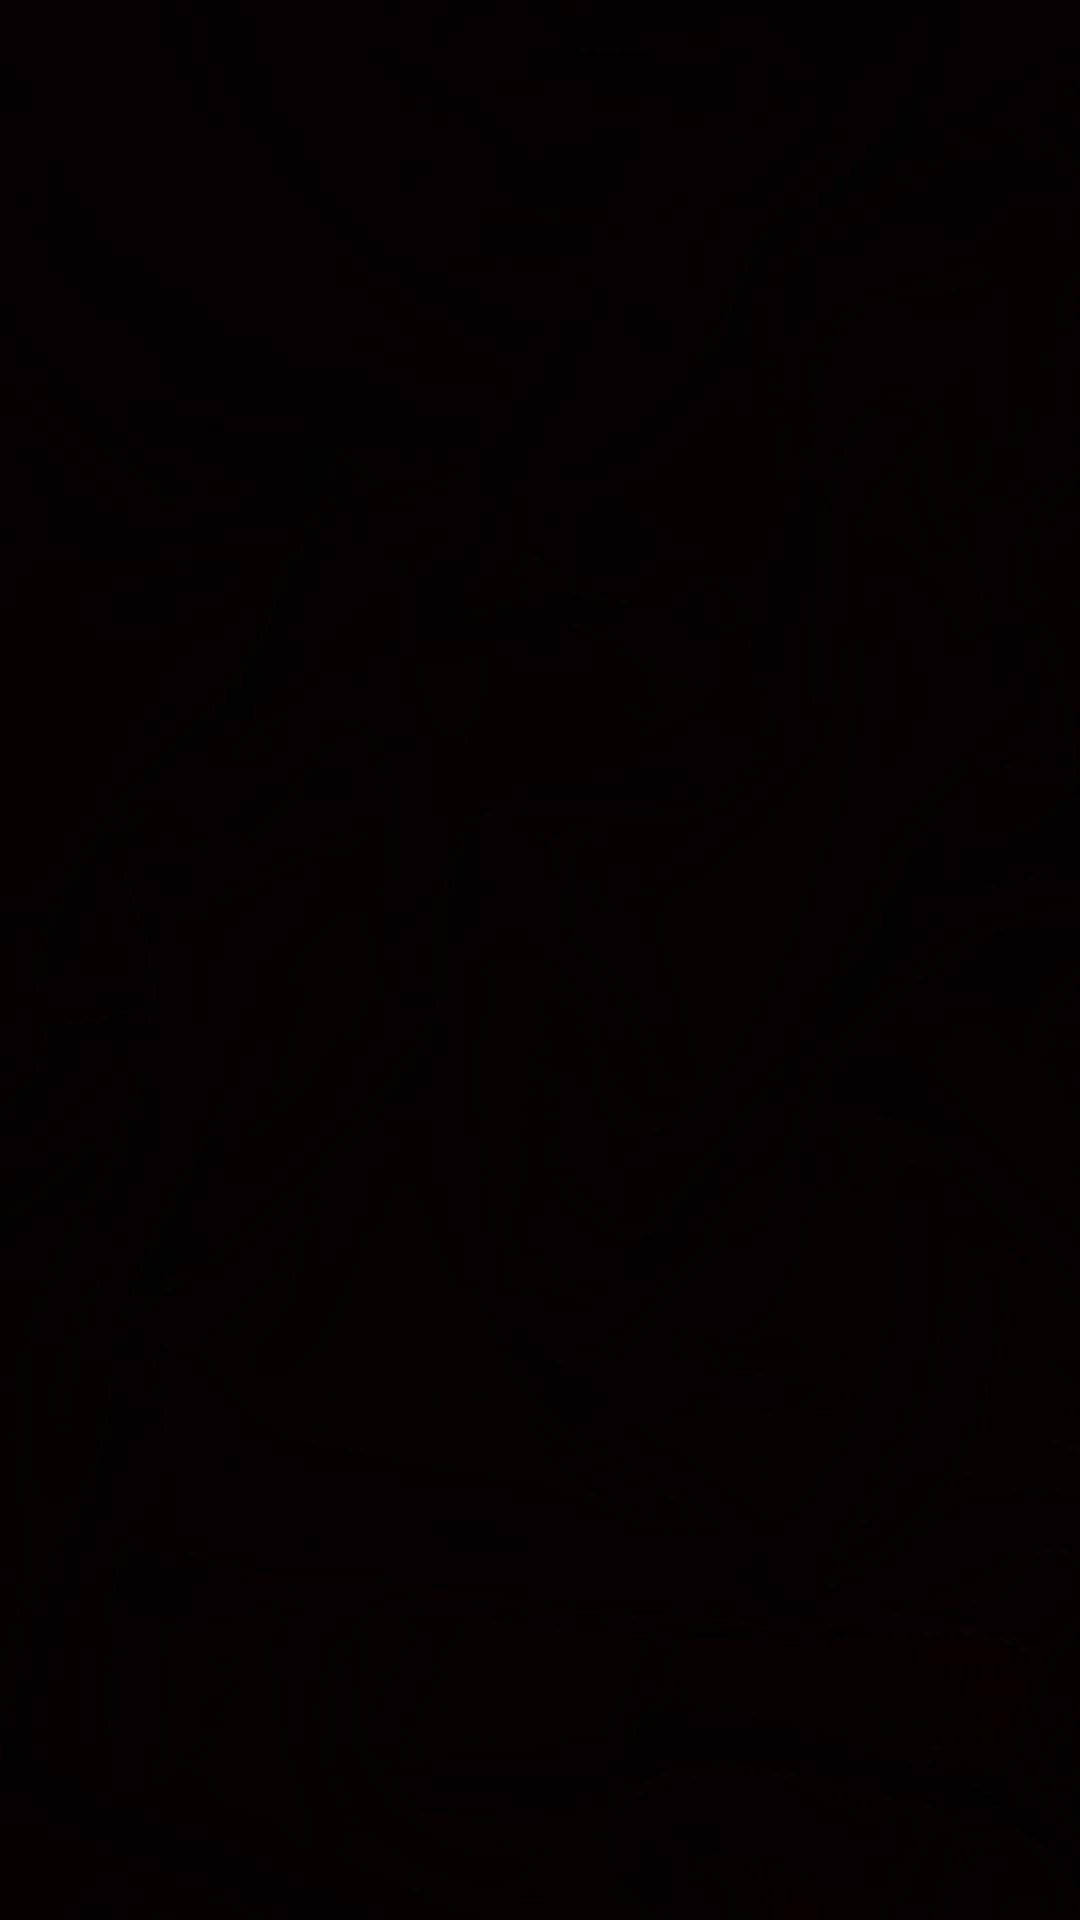
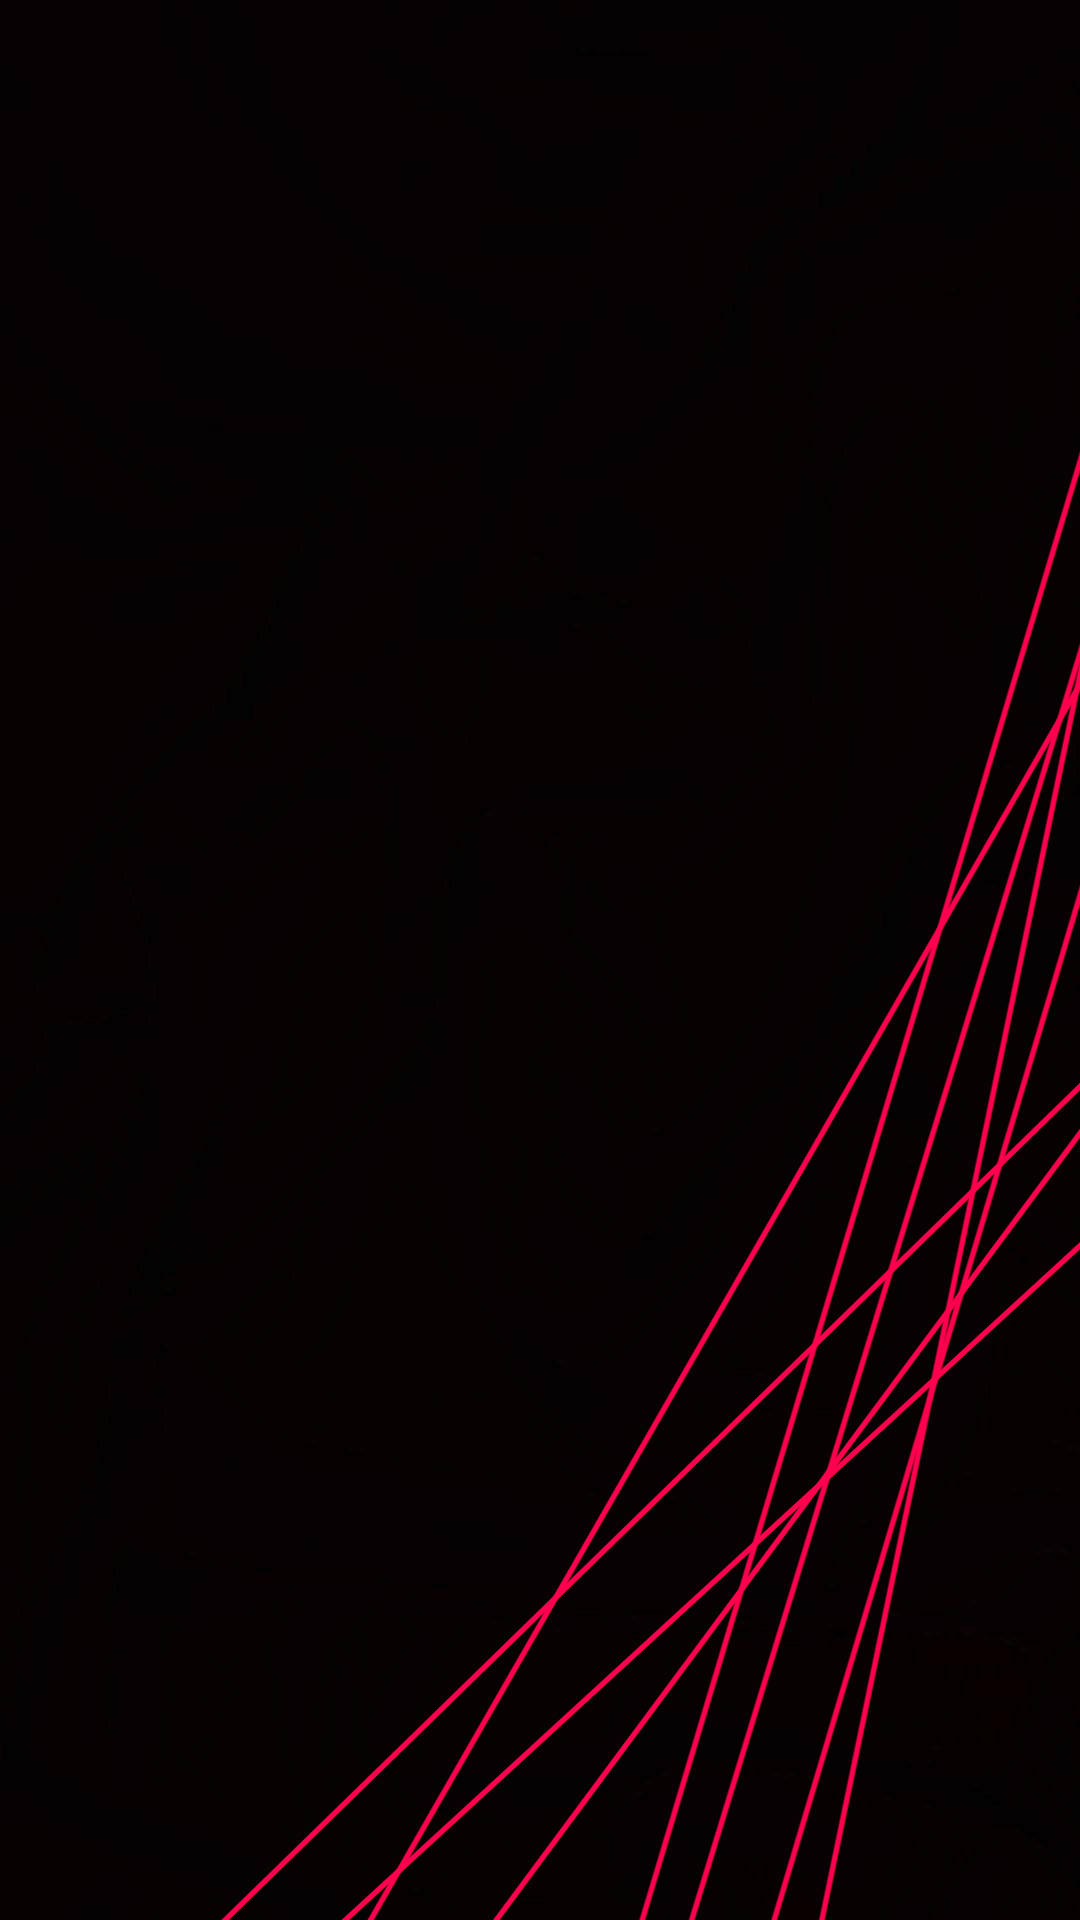
changed backgorund phone version

diff --git a/styles.css b/styles.css
@@ -386,7 +386,7 @@ nav .fa-solid{
 
 @media only screen and (max-width: 600px){
   #header{
-    background-image: url(background.png);
+    background-image: url(images/background.jpg);
   }
 
   .header-text{
